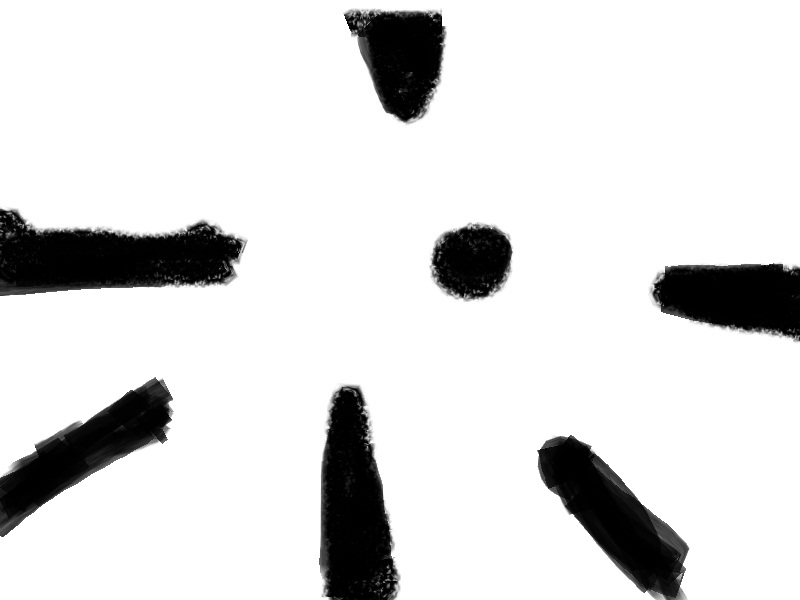
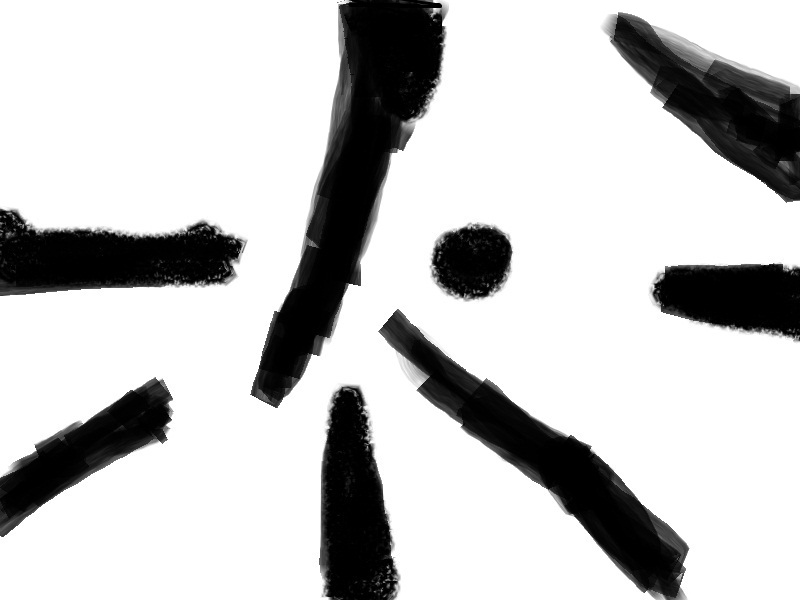
#CCV_plugin_hand_extraction# add more scenarios

diff --git a/_opencv_app/CCV_plugin_hand_extraction/src/main.cpp b/_opencv_app/CCV_plugin_hand_extraction/src/main.cpp
@@ -1,12 +1,41 @@
 #include "../../../_common/vOpenCV/OpenCV.h"
 #include "../../../_common/vOpenCV/BlobTracker.h"
+#include <set>
 
 using namespace cv;
+
+enum PointState{
+	NEAR_LEFT,
+	NEAR_RIGHT,
+	NEAR_TOP,
+	NEAR_BOTTOM,
+	NEAR_NOTHING,
+};
+
+PointState getPointState(const Point& pt, int width, int height, int id)
+{
+	int x0 = width*id;
+	int x1 = width*(id+1);
+	int y0 = 0;
+	int y1 = height;
+	const int thresh = 3;
+	if (pt.x < x0+thresh)
+		return NEAR_LEFT;
+	if (pt.x > x1-thresh)
+		return NEAR_LEFT;
+	if (pt.y < thresh)
+		return NEAR_TOP;
+	if (pt.y > height-thresh)
+		return NEAR_BOTTOM;
+	return NEAR_NOTHING;
+}
 
 int main(int argc, char** argv )
 {	
 	Mat frame = cvLoadImage("../media/scene.jpg", CV_LOAD_IMAGE_GRAYSCALE);
-	
+	int W = frame.cols;
+	int H = frame.rows;
+
 	vector<vBlob> blobs;
 	vThreshInv(frame, 100);
 	vClose(frame,2);
@@ -19,19 +48,40 @@ int main(int argc, char** argv )
 	for (int i=0;i<blobs.size();i++)
 	{
 		printf("\n");
-		int min_value = INT_MAX;
+		std::set<PointState> NearPointSet; 
+
 		vBlob& b = blobs[i];
 		vPolyLine(frame, b.pts);
+
+		Point ptx(W/2, H/2);
 		for (int j=0;j<b.pts.size();j++)
 		{
-			Point diff = b.pts[j] - Point(400, 300);
+			PointState st = getPointState(b.pts[j], W, H, 0);
+			if (st != NEAR_NOTHING)
+			{
+				NearPointSet.insert(st);
+				ptx = b.pts[j];
+				break;
+			}
+		}
+
+		bool only_one_near = NearPointSet.size() == 1;
+		int min_value = only_one_near ? 0 : INT_MAX;
+		for (int j=0;j<b.pts.size();j++)
+		{
+			Point diff = b.pts[j] - ptx;
 			float dist = norm(diff);
-			if (dist < min_value)
+
+			if (
+				(only_one_near && dist > min_value) ||
+				(!only_one_near && dist < min_value)
+				)
 			{
 				min_value = dist;
 				min_idx = j;
 			}
 		}
+
 		int n_neighbors = 1;
 		float sum_x = b.pts[min_idx].x;
 		float sum_y = b.pts[min_idx].y;
